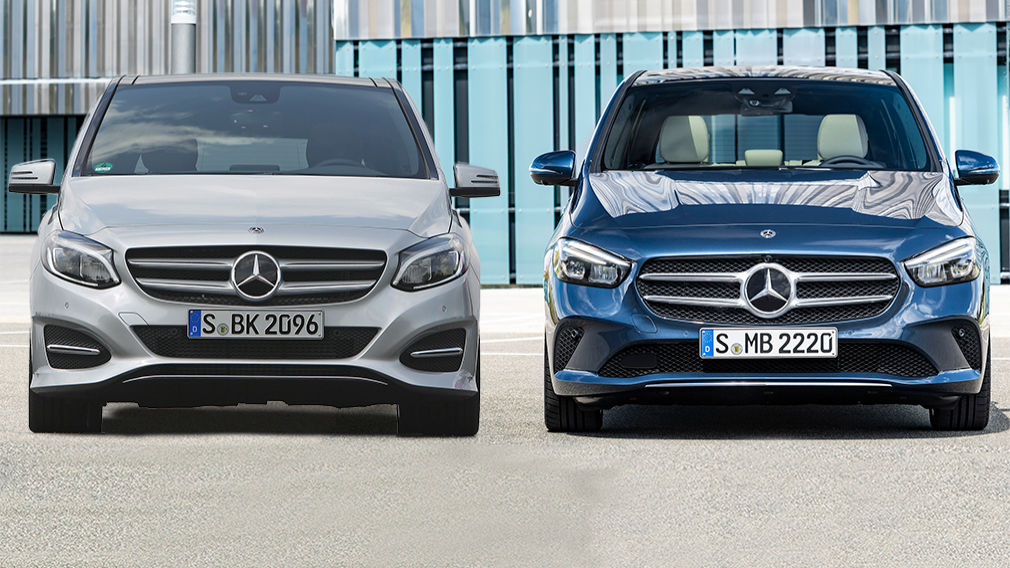
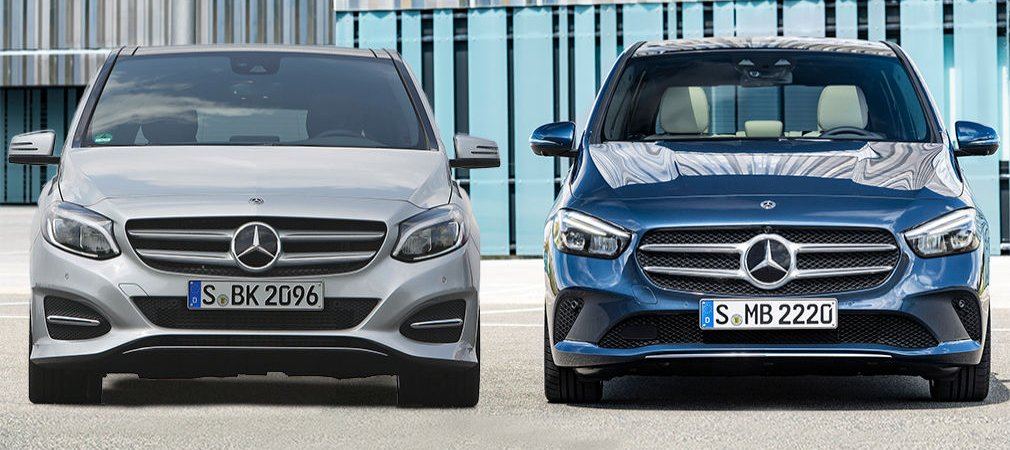
piyopiyo246

diff --git a/pic/mb_img_b.html b/pic/mb_img_b.html
@@ -116,7 +116,7 @@
 <p class="style-n b">Vergleich zwischen alt und neu</p>
 <div class="style-w">
 	<p class="m1">W246 , W247</p>
-		<img src="style/b/w246_w247.jpg" alt="Mercedes,Ww246_w247,front view" width="1010" height="568">
+		<img src="style/b/w246_w247.jpg" alt="Mercedes,Ww246_w247,front view" width="1010" height="450">
 </div>
 
 <hr>
